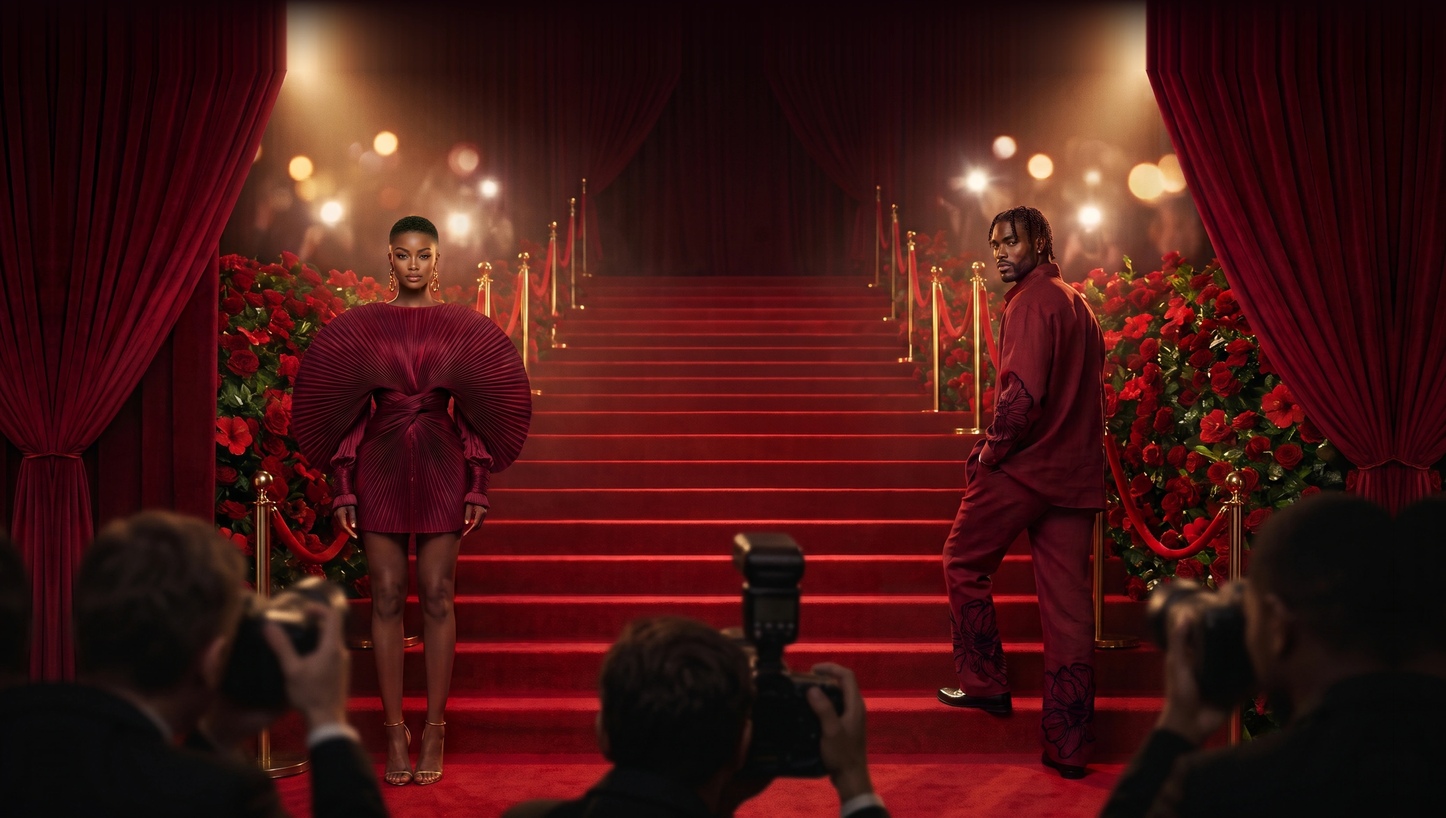
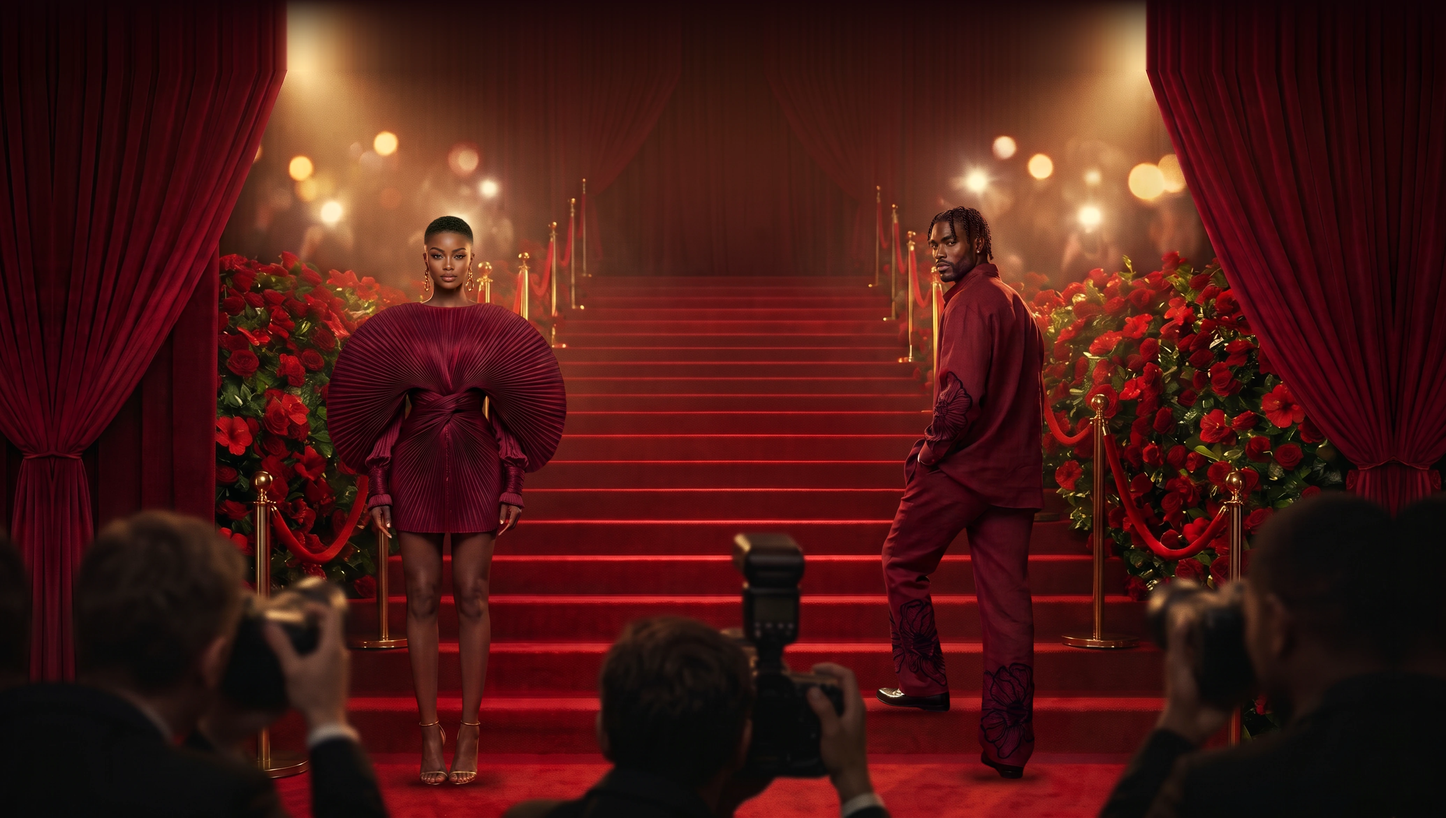
Ruby Oba desktop: couple placed separately on the empty staircase, closer to the centre; name more see-through

diff --git a/index.html b/index.html
@@ -424,13 +424,13 @@ var BL = [
    // warm gold (coral beads, brass lamp) for the lit number; deep cherry glass behind the tag and buttons
    nav:{alt:"#4FC3B8", hi:"#E8B84A", tag:"rgba(64,8,20,.92)", edge:"rgba(79,195,184,.8)", glass:"rgba(50,6,16,.42)",
         navsh:"0 1px 3px rgba(0,0,0,.85),0 0 14px rgba(20,2,8,.9)"},
-      nameStyle:{kind:"press", inner:true, tint:"0,0,0", op:0.75, d:0},   // Ruby Oba (TJ, 27 Nov): one flat see-through black, solid letters, no shadow, glow, edge or gradient
+      nameStyle:{kind:"press", inner:true, tint:"0,0,0", op:0.45, d:0},   // Ruby Oba (TJ, 27 Nov): one flat see-through black, solid letters, no shadow, glow, edge or gradient
       nameStyleTall:{kind:"press", tint:"255,170,96", op:0.46, mode:"screen", glow:"rgba(255,150,70,.55)", blur:22, d:0.016,
               lo:"rgba(16,0,4,.55)", hi:"rgba(255,214,160,.16)"},   // phones still show the dark lounge picture, where black would vanish; drop this when the phone red carpet picture goes in
    // scene (TJ, 26 Nov): red carpet staircase, she on the left, he on the right, three photographers along the bottom edge.
    // Desktop only: the whole picture is the sky and a cut out of the two standing people is the front layer, so the name sits behind their heads.
-   // The picture is the original widened by mirrored curtain on both sides and a darkened extension on top, so the people sit smaller with more room above. Sources: Downloads ruby-oba-red-carpet-scene.jpg (Gemini, free). The phone picture is still the old lounge slice.
-   layers:{wide:{w:4140,h:2343,headW:0.36,sky:"img/ruby-oba-sky.webp?v=carpet2",fg:"img/ruby-oba-fg.webp?v=carpet2",fgd:0.15},
+   // The picture is the original widened by mirrored curtain on both sides and a darkened extension on top, so the people sit smaller with more room above. The picture is the empty staircase plate with the two people cut out and set back in, moved sideways so their heads cross solid strokes of the name, with a soft light haze on the drape behind it. Sources: Downloads ruby-oba-red-carpet-scene.jpg (Gemini, free). The phone picture is still the old lounge slice.
+   layers:{wide:{w:4140,h:2343,headW:0.36,sky:"img/ruby-oba-sky.webp?v=carpet3",fg:"img/ruby-oba-fg.webp?v=carpet3",fgd:0.15},
            tall:{w:1080,h:2160,head:0.36,sky:"img/ruby-oba-sky-tall.webp?v=lounge2",fg:"img/empty-fg.webp"}}},
   {n:31,name:"Oud Panga",top:["Strawberry","Candied pear","Marshmallow"],heart:["Caramel","Jasmine"],base:["Oud","Sandalwood","Vanilla","Sugar"],
    desc:"Sweet candy over soft oud and sandalwood. Evening and date night, unisex. Strong projection and powerful staying power. Like sugared fruit laid out on a warm sandalwood table.",
